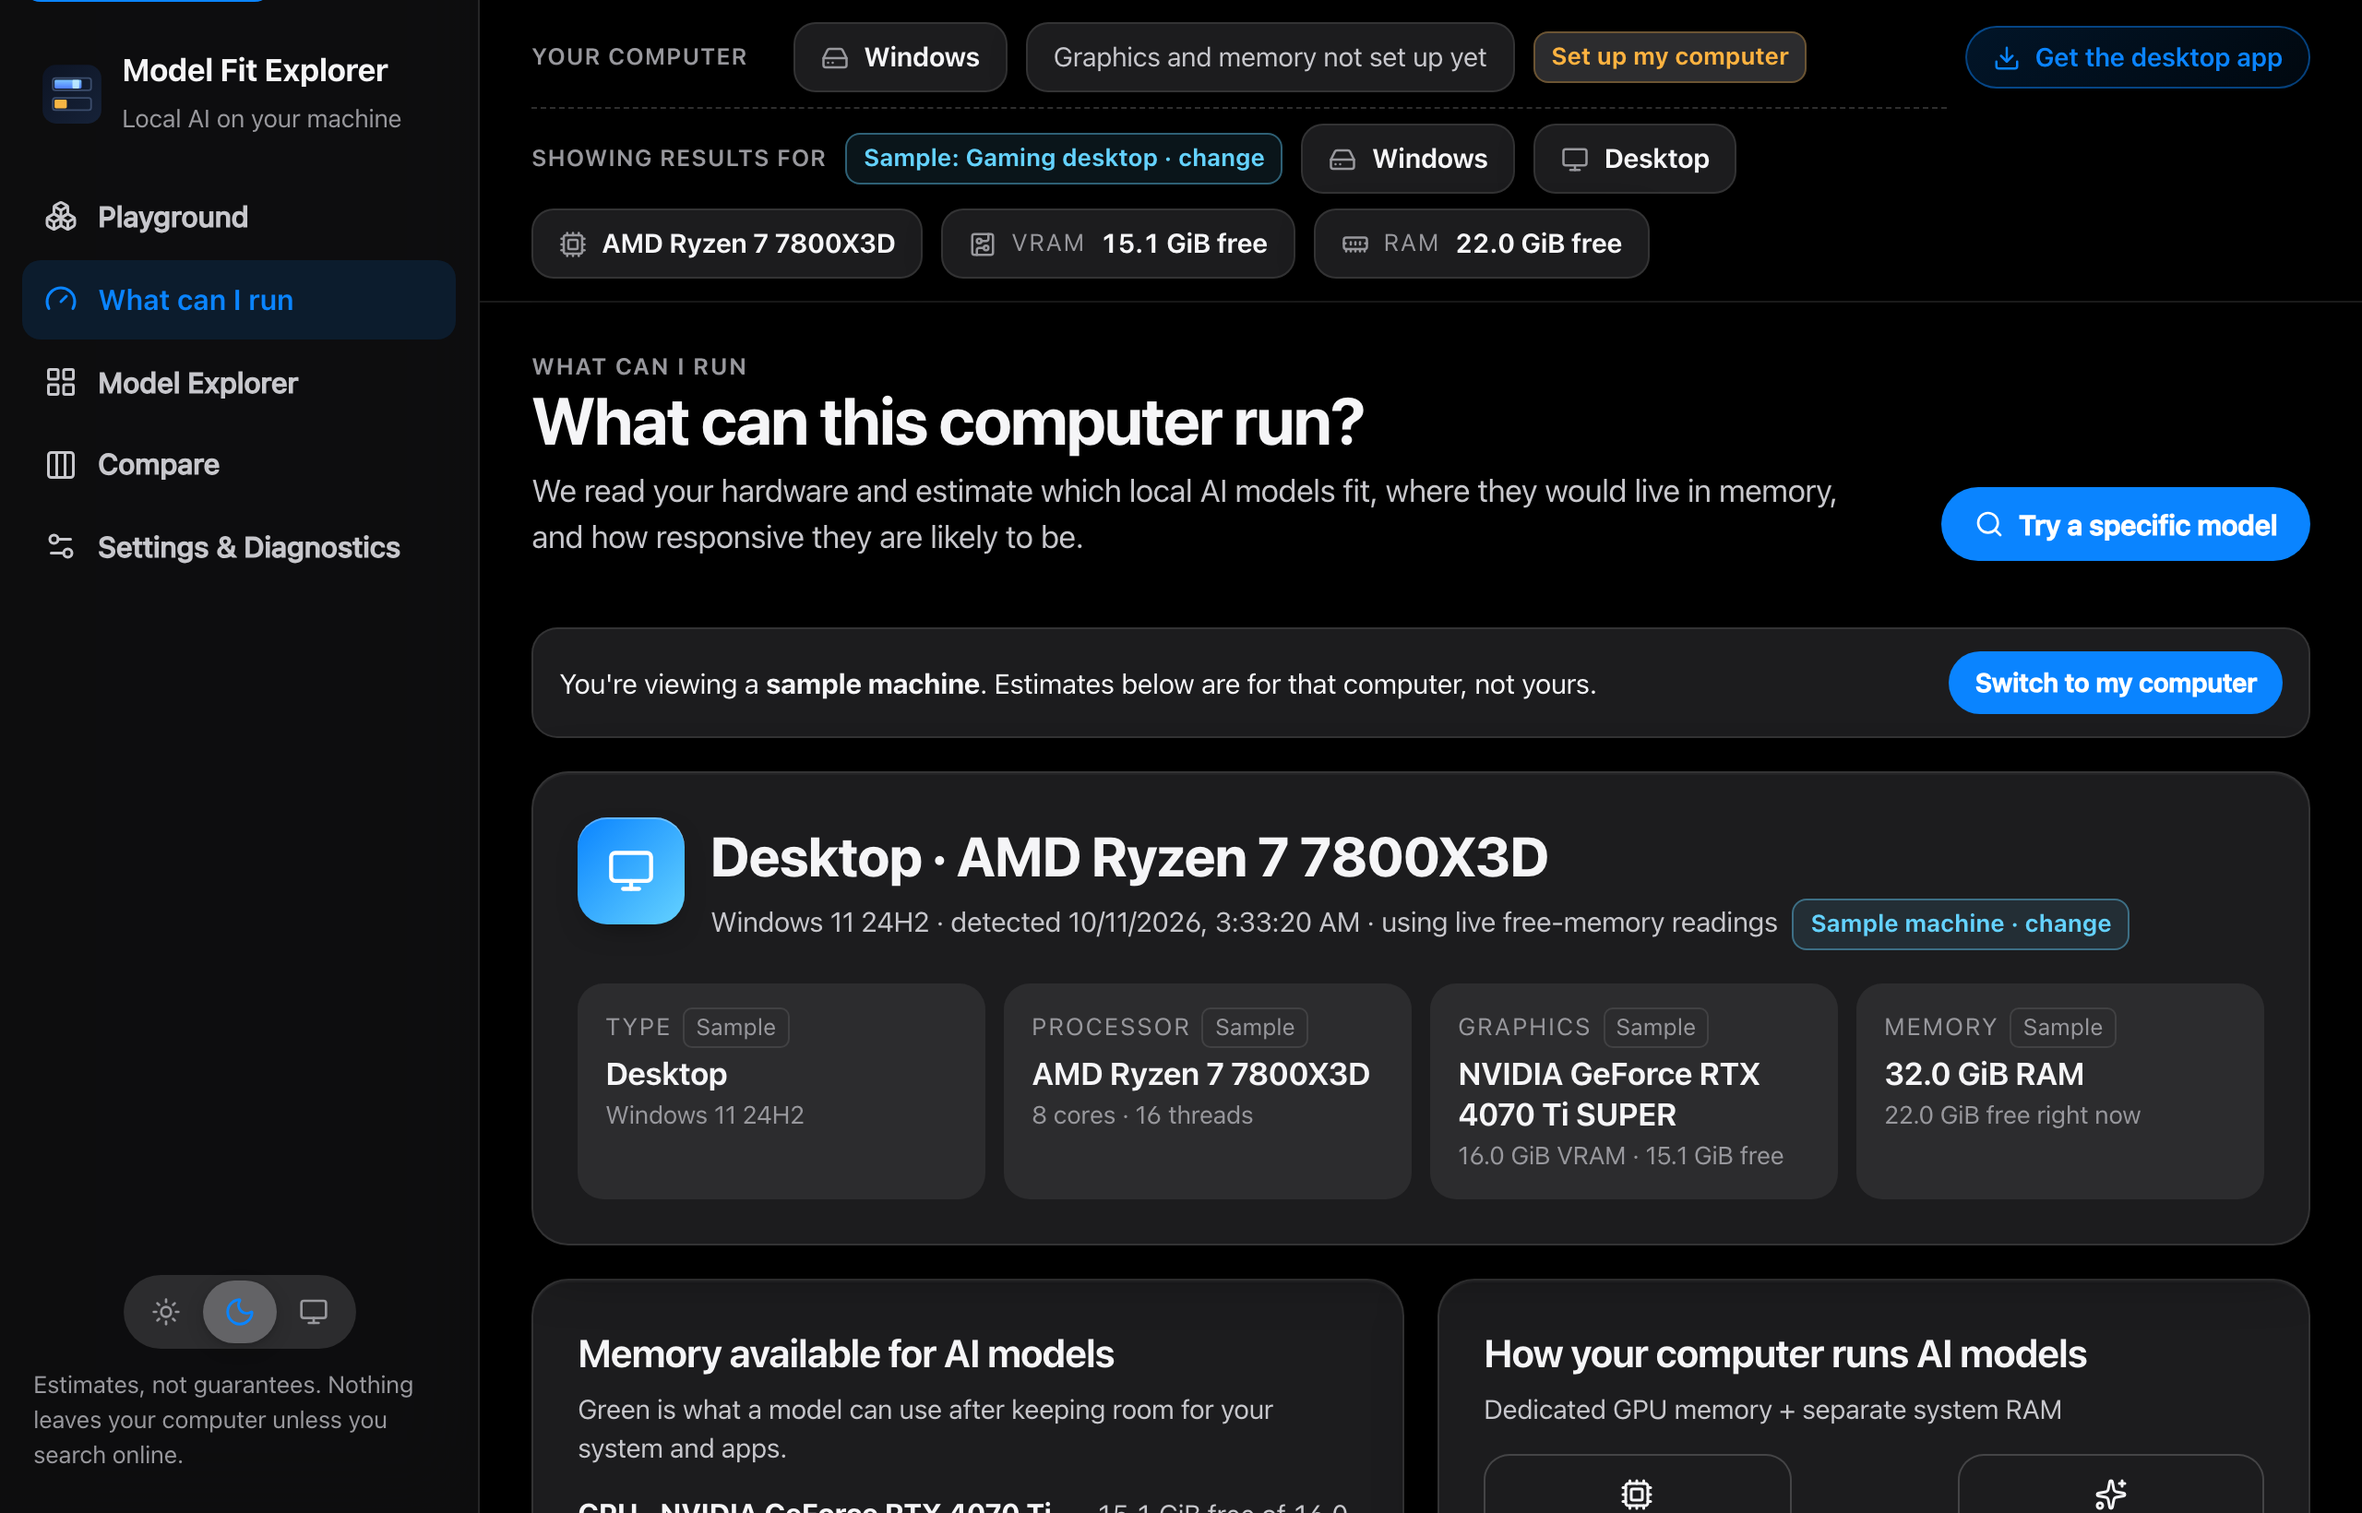
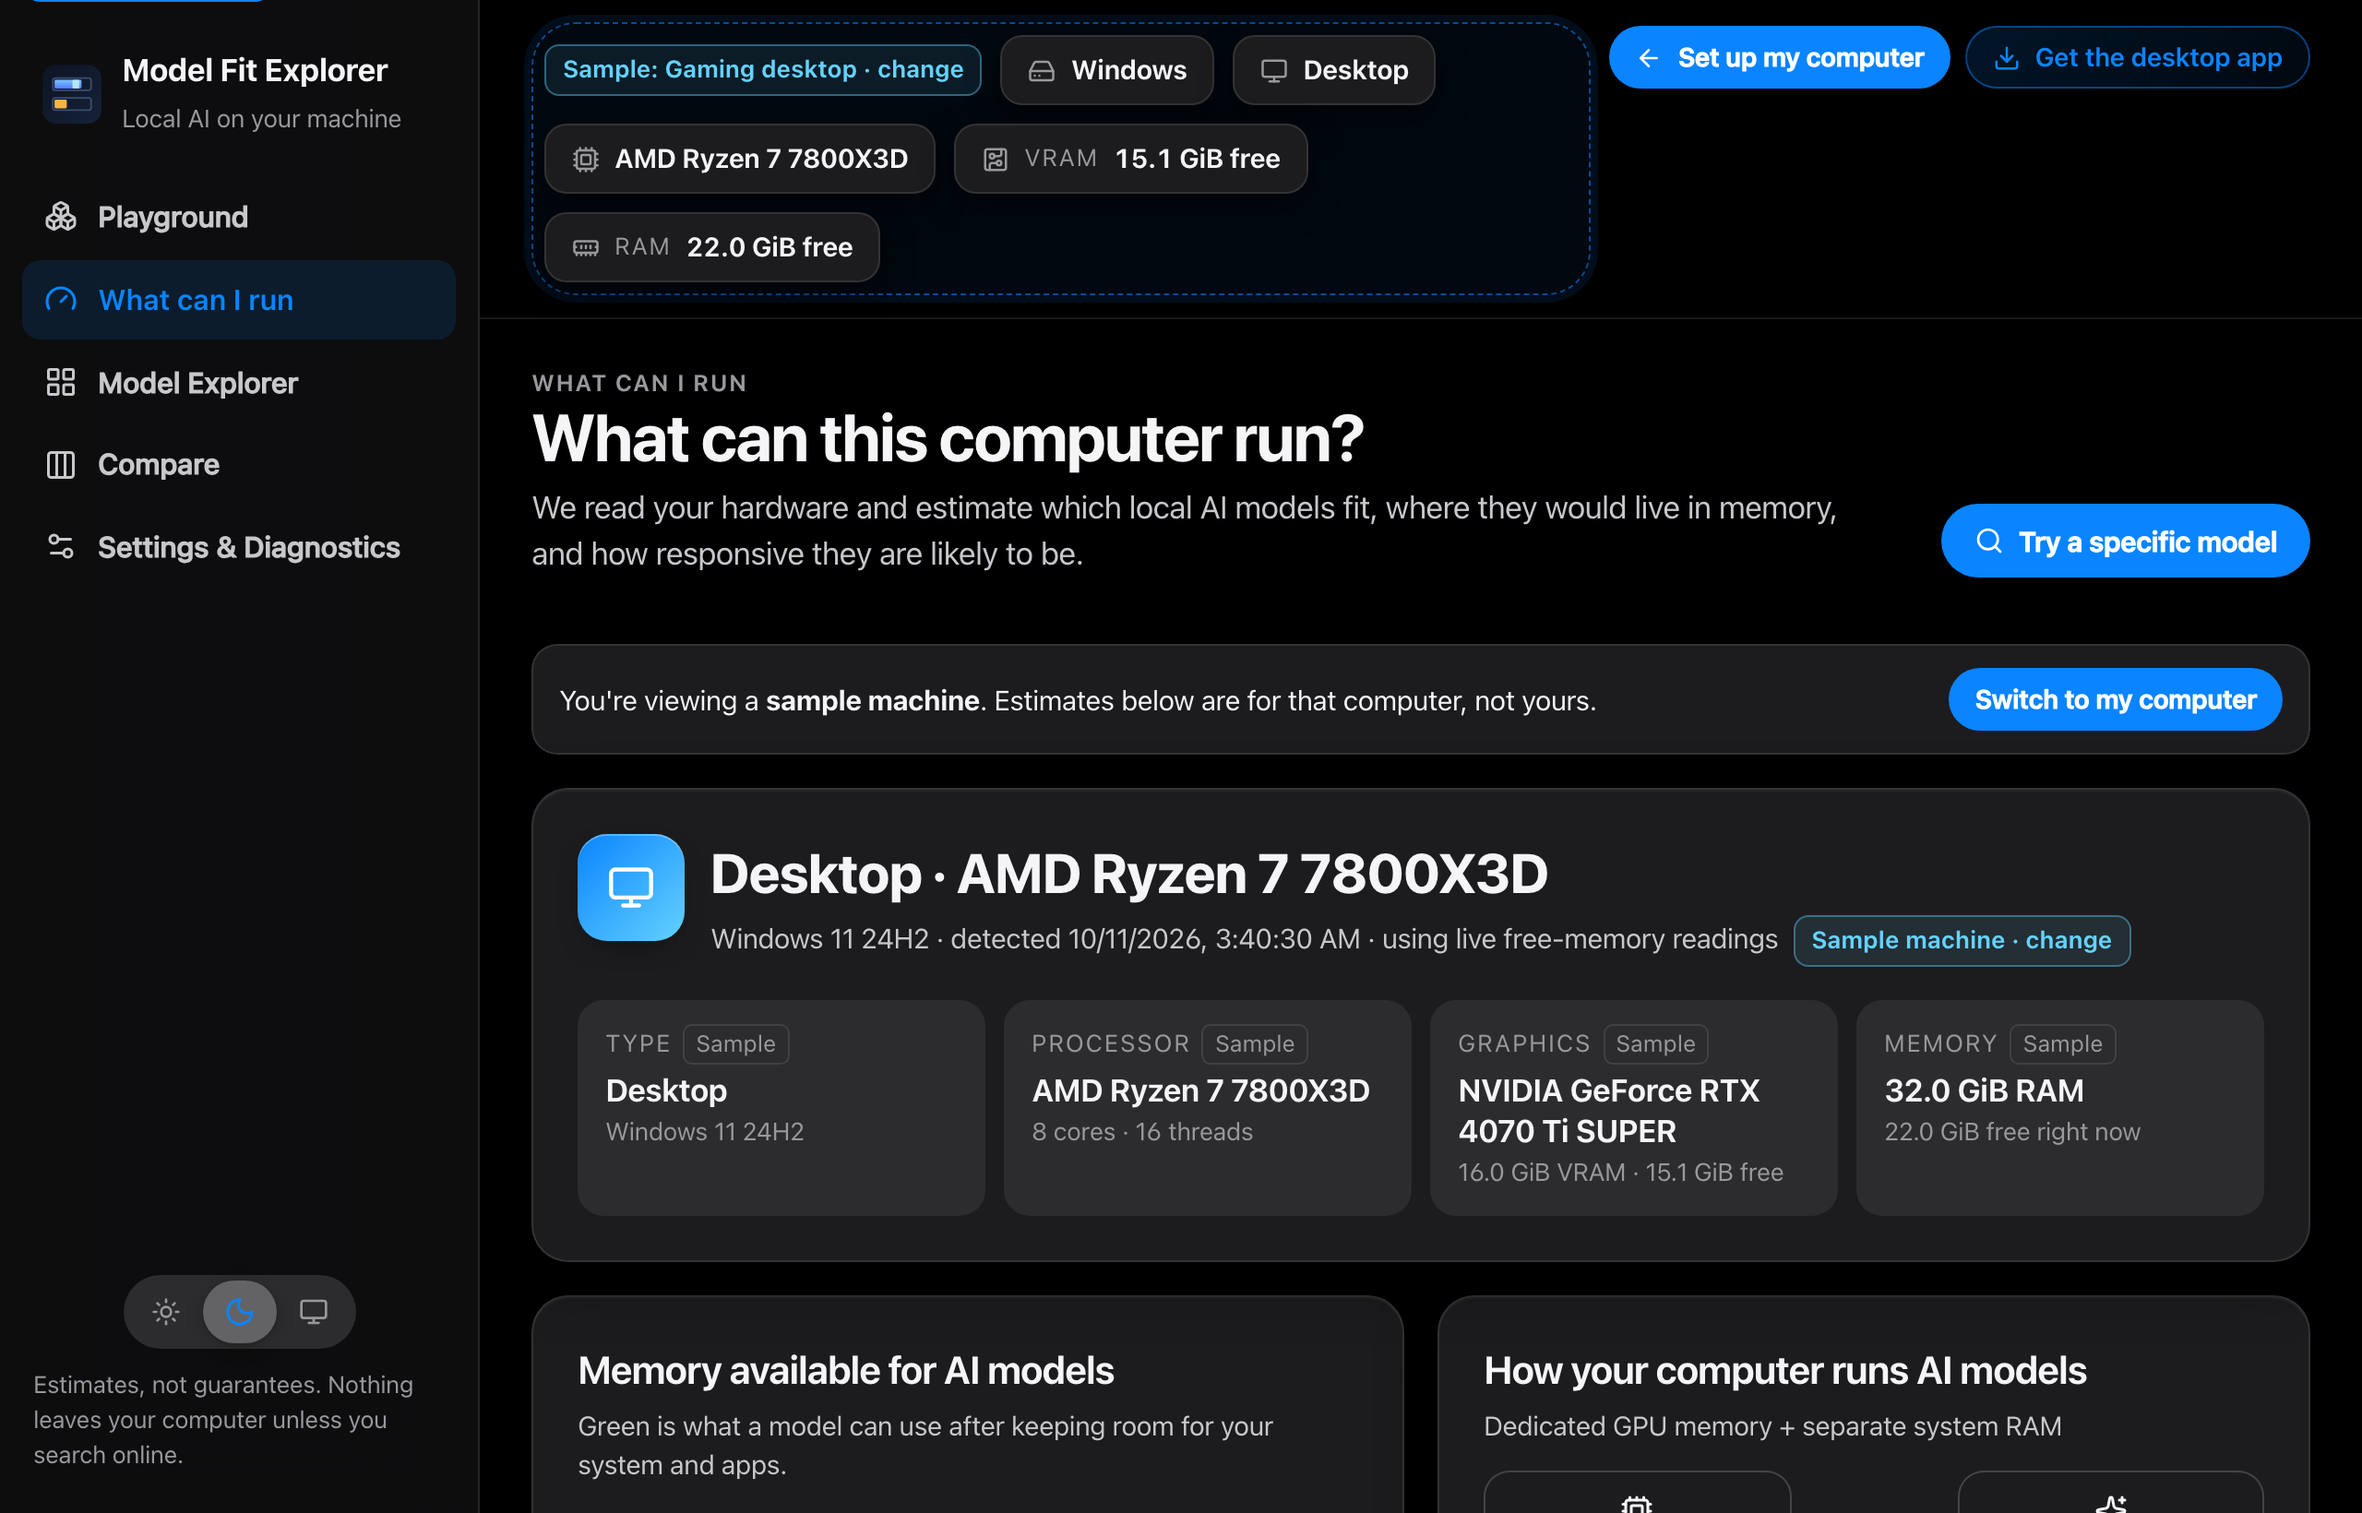
Ring the active machine in the bar; Back to my computer button while a sample is shown

diff --git a/src/components/MachineBar.tsx b/src/components/MachineBar.tsx
@@ -1,15 +1,13 @@
-import { Cpu, HardDrive, Laptop, Monitor, MemoryStick, RefreshCw, Download, Server, CircuitBoard, Boxes, Microchip } from "lucide-react";
-import { useMemo } from "react";
+import { ArrowLeft, Cpu, HardDrive, Laptop, Monitor, MemoryStick, RefreshCw, Download, Server, CircuitBoard, Boxes, Microchip } from "lucide-react";
 import { useStore } from "../state/store";
-import { useMachine, useOwnHardware } from "../state/derived";
-import { buildMachineProfile } from "../domain/hardware";
+import { useMachine } from "../state/derived";
 import type { MachineProfile } from "../domain/estimator";
 import { useUpdater } from "./Updater";
 import { DEMO_MACHINES } from "../platform/demoHardware";
 import { fmtBytes } from "../lib/units";
 import { isTauri } from "../platform/bridge";
 import { DesktopCta } from "./DesktopCta";
-import { EMPTY_OVERRIDES, type FormFactor, type HardwareReport } from "../domain/types";
+import type { FormFactor, HardwareReport } from "../domain/types";
 
 export const FORM_LABEL: Record<FormFactor, string> = {
   desktop: "Desktop",
@@ -30,20 +28,8 @@ export function FormIcon({ f, size = 15 }: { f: FormFactor | null | undefined; s
 }
 
 /** OS, device type, processor and memory chips for one machine. */
-function HardwareChips({ hw, m, ff, ffConf, unconfirmed }: { hw: HardwareReport; m: MachineProfile; ff: FormFactor | null; ffConf: string; unconfirmed?: boolean }) {
+function HardwareChips({ hw, m, ff, ffConf }: { hw: HardwareReport; m: MachineProfile; ff: FormFactor | null; ffConf: string }) {
   const gpu = m.gpus[0];
-  if (unconfirmed) {
-    // Browser guesses not yet confirmed: show only what the browser really knows.
-    return (
-      <>
-        <span className="chip" title={`${hw.os.name} ${hw.os.version}`}>
-          <HardDrive size={15} />
-          <b>{hw.os.name}</b>
-        </span>
-        <span className="chip muted">Graphics and memory not set up yet</span>
-      </>
-    );
-  }
   return (
     <>
       <span className="chip" title={`${hw.os.name} ${hw.os.version}`}>
@@ -107,8 +93,6 @@ export function MachineBar() {
   const updPhase = useUpdater((u) => u.phase);
   const updVersion = useUpdater((u) => u.update?.version);
   const m = useMachine();
-  const own = useOwnHardware();
-  const ownMachine = useMemo(() => (own ? buildMachineProfile(own, EMPTY_OVERRIDES) : null), [own]);
   if (!hw || !m) {
     return (
       <div className="machine-bar">
@@ -131,54 +115,44 @@ export function MachineBar() {
   return (
     <header className="machine-bar" aria-label="Your machine">
       <div className="inner">
-        {isSample ? (
-          // Sample active: your own computer on top, the sample the results use underneath.
-          <div className="bar-chips stacked">
-            <div className="bar-row" aria-label="Your computer">
-              <span className="bar-label">Your computer</span>
-              {own && ownMachine ? <HardwareChips hw={own} m={ownMachine} ff={own.formFactor.value} ffConf={own.formFactor.confidence} unconfirmed={!isTauri() && !browserSetup} /> : <span className="chip muted">Not checked yet</span>}
-              <button className="badge estimated" style={{ cursor: "pointer" }} onClick={useMine} data-tip="Show results for your own computer" data-tip-pos="below">
-                {isTauri() || browserSetup ? "Use my computer" : "Set up my computer"}
-              </button>
-            </div>
-            <div className="bar-row sample-row" aria-label="Sample machine">
-              <span className="bar-label">Showing results for</span>
-              <button className="badge demo" style={{ cursor: "pointer" }} onClick={() => setSetupOpen(true)} data-tip="Choose another sample or adjust it" data-tip-pos="below">
-                Sample: {demoName} · change
-              </button>
-              <HardwareChips hw={hw} m={m} ff={ff} ffConf={ffConf} />
-            </div>
-          </div>
-        ) : (
-          <div className="bar-chips">
-            {hw.mode === "browser" ? (
-              <button
-                className={`badge ${hw.browserConfirmed ? "demo" : "estimated pulse"}`}
-                style={{ cursor: "pointer" }}
-                onClick={() => setSetupOpen(true)}
-                data-tip="Estimated in your browser from your answers. Click to review."
-                data-tip-pos="below"
-              >
-                {hw.browserConfirmed ? "My computer · edit" : "Set up my computer"}
-              </button>
-            ) : (
-              <button
-                className="badge demo"
-                style={{ cursor: "pointer" }}
-                onClick={() => setSetupOpen(true)}
-                data-tip={basis === "live" ? "Live: memory free right now, with your apps open. Click to change." : "Normal use: keeps about 20% of memory for the system and apps. Click to change."}
-                data-tip-pos="below"
-              >
-                My computer · {basis === "live" ? "Live" : "Normal use"}
-              </button>
-            )}
-            <HardwareChips hw={hw} m={m} ff={ff} ffConf={ffConf} />
-          </div>
-        )}
+        {/* The machine every result on the page is calculated for, ringed so it's clear what's active. */}
+        <div className={`bar-chips active-machine ${isSample ? "is-sample" : ""}`} aria-label={isSample ? "Results are for this sample machine" : "Results are for your computer"}>
+          {isSample ? (
+            <button className="badge demo" style={{ cursor: "pointer" }} onClick={() => setSetupOpen(true)} data-tip="Choose another sample or adjust it" data-tip-pos="below">
+              Sample: {demoName} · change
+            </button>
+          ) : hw.mode === "browser" ? (
+            <button
+              className={`badge ${hw.browserConfirmed ? "demo" : "estimated pulse"}`}
+              style={{ cursor: "pointer" }}
+              onClick={() => setSetupOpen(true)}
+              data-tip="Estimated in your browser from your answers. Click to review."
+              data-tip-pos="below"
+            >
+              {hw.browserConfirmed ? "My computer · edit" : "Set up my computer"}
+            </button>
+          ) : (
+            <button
+              className="badge demo"
+              style={{ cursor: "pointer" }}
+              onClick={() => setSetupOpen(true)}
+              data-tip={basis === "live" ? "Live: memory free right now, with your apps open. Click to change." : "Normal use: keeps about 20% of memory for the system and apps. Click to change."}
+              data-tip-pos="below"
+            >
+              My computer · {basis === "live" ? "Live" : "Normal use"}
+            </button>
+          )}
+          <HardwareChips hw={hw} m={m} ff={ff} ffConf={ffConf} />
+        </div>
         <div className="bar-actions">
         {!isSample && (
           <button className="btn icon-btn round" onClick={() => void rescan()} disabled={status === "probing"} aria-label="Rescan hardware" data-tip="Rescan hardware" data-tip-pos="below" data-tip-align="end">
             <RefreshCw size={16} className={status === "probing" ? "spin" : ""} />
+          </button>
+        )}
+        {isSample && (
+          <button className="btn primary sm back-mine" onClick={useMine} data-tip="Show results for your own computer" data-tip-pos="below" data-tip-align="end">
+            <ArrowLeft size={15} /> {isTauri() || browserSetup ? "Back to my computer" : "Set up my computer"}
           </button>
         )}
         {!isTauri() && <DesktopCta />}

diff --git a/src/styles/app.css b/src/styles/app.css
@@ -3775,40 +3775,57 @@ a.btn:hover {
   color: var(--warn);
 }
 
-/* machine bar while a sample is shown: your computer on top, the sample underneath */
-.bar-chips.stacked {
-  flex-direction: column;
-  align-items: stretch;
-  gap: 8px;
+
+/* ring around the machine the results are for */
+.bar-chips.active-machine {
+  padding: 6px;
+  border-radius: 24px;
+  border: 1.5px solid color-mix(in srgb, var(--accent) 55%, transparent);
+  background: color-mix(in srgb, var(--accent) 6%, transparent);
+  box-shadow: 0 0 0 4px color-mix(in srgb, var(--accent) 10%, transparent);
+  transition: border-color 200ms var(--ease), box-shadow 200ms var(--ease);
 }
-.bar-row {
-  display: flex;
-  flex-wrap: wrap;
-  align-items: center;
-  gap: 8px 10px;
-  min-width: 0;
+.bar-chips.active-machine.is-sample {
+  border-style: dashed;
 }
-.bar-label {
-  flex: none;
-  min-width: 132px;
-  font-size: 12.5px;
-  font-weight: 600;
-  letter-spacing: 0.04em;
-  text-transform: uppercase;
-  color: var(--text-3);
-}
-.bar-row.sample-row {
-  padding-top: 8px;
-  border-top: 1px dashed var(--border-strong);
+.back-mine {
+  white-space: nowrap;
 }
 @media (max-width: 640px) {
-  .bar-label {
-    min-width: 0;
+  .back-mine {
+    font-size: 13px;
+    padding: 0 10px;
+  }
+}
+.bar-chips.active-machine {
+  flex: 0 1 auto;
+}
+.machine-bar .bar-actions {
+  margin-left: auto;
+}
+@media (max-width: 640px) {
+  .machine-bar .inner {
+    flex-wrap: wrap;
+  }
+  .machine-bar .bar-actions {
+    order: 1;
     width: 100%;
+    justify-content: flex-end;
+  }
+  .bar-chips.active-machine {
+    order: 2;
+    flex: 1 1 100%;
   }
 }
 @media (max-width: 640px) {
-  .bar-chips.stacked .bar-row:first-child .chip {
-    display: none;
+  .active-machine .chip {
+    max-width: 100%;
+    min-width: 0;
+  }
+  .active-machine .chip b {
+    min-width: 0;
+    overflow: hidden;
+    text-overflow: ellipsis;
+    white-space: nowrap;
   }
 }

diff --git a/src/state/derived.ts b/src/state/derived.ts
@@ -1,9 +1,7 @@
 import { useMemo } from "react";
 import { estimate, type Estimate, type MachineProfile } from "../domain/estimator";
 import { buildMachineProfile } from "../domain/hardware";
-import type { BenchmarkRecord, HardwareReport, ModelVariant, QuantId } from "../domain/types";
-import { isTauri } from "../platform/bridge";
-import { buildBrowserReport, suggestSetup } from "../platform/browserDetect";
+import type { BenchmarkRecord, ModelVariant, QuantId } from "../domain/types";
 import { useStore, type QuantChoice } from "./store";
 
 export function quantFor(m: ModelVariant, choice: QuantChoice, perModel: Record<string, QuantId>): QuantId {
@@ -17,14 +15,6 @@ export function useMachine(): MachineProfile | null {
   const hw = useStore((s) => s.hardware);
   const o = useStore((s) => s.overrides);
   return useMemo(() => (hw ? buildMachineProfile(hw, o) : null), [hw, o]);
-}
-
-/** This computer's own hardware (desktop probe or browser answers), even while a sample is shown. */
-export function useOwnHardware(): HardwareReport | null {
-  const native = useStore((s) => s.nativeReport);
-  const sig = useStore((s) => s.browserSignals);
-  const setup = useStore((s) => s.browserSetup);
-  return useMemo(() => (isTauri() ? native : sig ? buildBrowserReport(sig, setup ?? suggestSetup(sig)) : null), [native, sig, setup]);
 }
 
 export function useEstimate(m: ModelVariant | undefined, quantOverride?: QuantId): Estimate | null {

diff --git a/src/state/store.ts b/src/state/store.ts
@@ -210,9 +210,7 @@ export const useStore = create<State>()(
           if (get().webHardware === "demo") {
             const demo = DEMO_MACHINES.find((d) => d.id === get().demoId) ?? DEMO_MACHINES[0];
             set({ hardware: { ...demo.report, mode: "demo", detectedAt: new Date().toISOString() }, hardwareStatus: "ready" });
-            // Also read this computer, so the bar can show it next to the sample.
             if (isTauri() && !get().nativeReport) void probeHardware().then((r) => r && set({ nativeReport: { ...r, mode: "native" } }));
-            if (!isTauri() && !get().browserSignals) void detectBrowser().then((sig) => set({ browserSignals: sig })).catch(() => {});
             return;
           }
           if (!isTauri()) {

diff --git a/e2e/app.spec.ts b/e2e/app.spec.ts
@@ -274,4 +274,7 @@ test("samples: a Jetson board runs models on its CUDA GPU from shared memory", a
   await expect(bar).toContainText("Unified");
   await expect(page.getByText("CUDA acceleration")).toBeVisible();
   await expect(page.getByText("Runs well · best picks")).toBeVisible();
+  // one click back to your own computer
+  await page.getByRole("button", { name: /Back to my computer|Set up my computer/ }).first().click();
+  await expect(bar).not.toContainText("Sample:");
 });

diff --git a/CHANGELOG.md b/CHANGELOG.md
@@ -2,6 +2,10 @@
 
 Short, user-facing notes. The section for each version is shown in the app's update window.
 
+## 1.0.18
+- The machine your results are for is now ringed in the top bar (dashed for a sample)
+- While a sample is shown, a "Back to my computer" button sits top-right
+
 ## 1.0.17
 - While a sample is shown, the top bar also shows your own computer, with one click back to it
 - "No graphics card" now always means models run on the CPU, even if a GPU was detected
